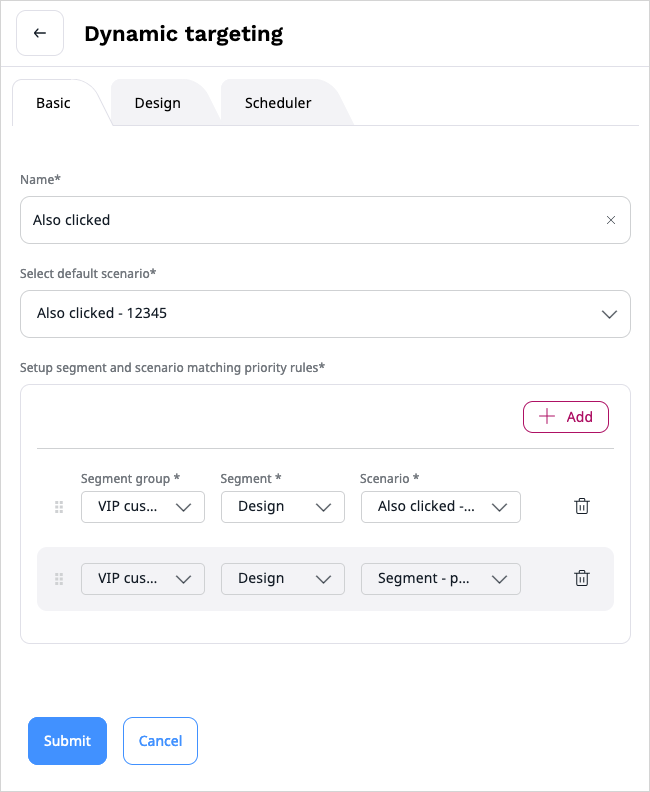
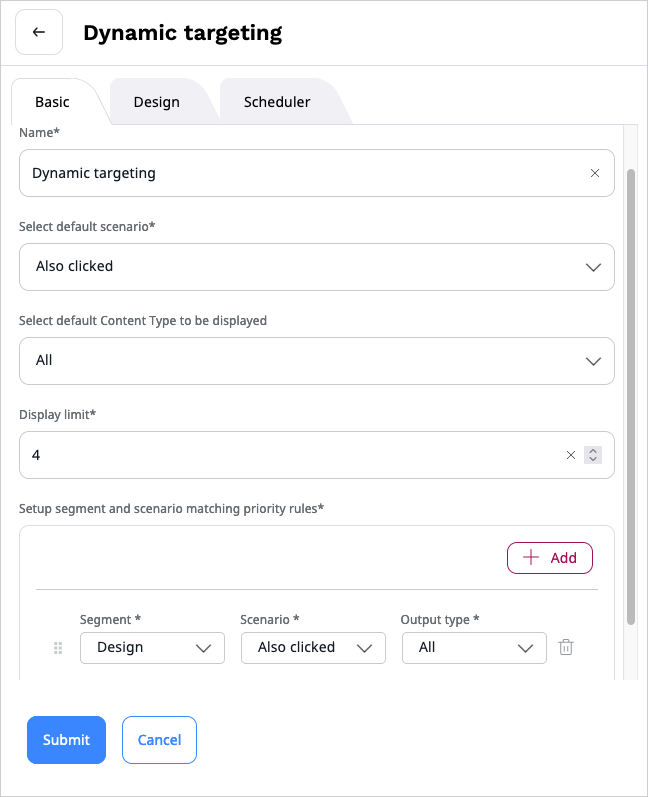
Changes after review

diff --git a/docs/personalization/cross_content_type_reco.md b/docs/personalization/cross_content_type_reco.md
@@ -1,6 +1,6 @@
 # Cross content type recommendations
 
-Cross content type option is used to get multiple recommendation items for each input types. 
+Cross content type option is used to combine best recommendation items from different content types.
 It applies to scenarios which have more than one output type configured.
 
 ## Configure scenario
@@ -13,7 +13,9 @@ To get multiple output types in the recommendation request, perform the followin
     It contains a list of all content types exported for the specified customer ID.
 1. Next, go to Preview Scenario.
 1. From the **Output type** drop-down, select **All**. 
+
 The **All** option automatically appears after content types are selected in the scenario settings.
+
 !!! note
 
     The **All** option can be translated according to your needs.
@@ -35,6 +37,8 @@ To get all output types in the [Personalized block](../site_organization/working
 To get all output types in the [Dynamic targeting block](../site_organization/working_with_page.md#dynamic-targeting-block):
 
 1. In the block settings, set the scenario with configured crosscontent types output.
+1. From the **Output type** drop-down, select **All**.
+
 1. Next, set the rules according to your needs.
 1. Click **Submit**.
 

diff --git a/docs/site_organization/working_with_page.md b/docs/site_organization/working_with_page.md
@@ -147,6 +147,7 @@ On the **Basic** tab, perform the following actions:
 - In the **Select default scenario** section, select the default scenario for recommended items that should be rendered if the current user
 is not assigned to any Segment.
 - In the **Setup segment and scenario matching priority rules** drop-down, select a Segment group, a Segment identifier and Scenario that you want to display recommendations from.
+- **Display limit** – Set the number of products to be displayed, for example, 4.
 
 The rules are checked in order, so when a user belongs to more than one Segment, the first rule applies.
 
